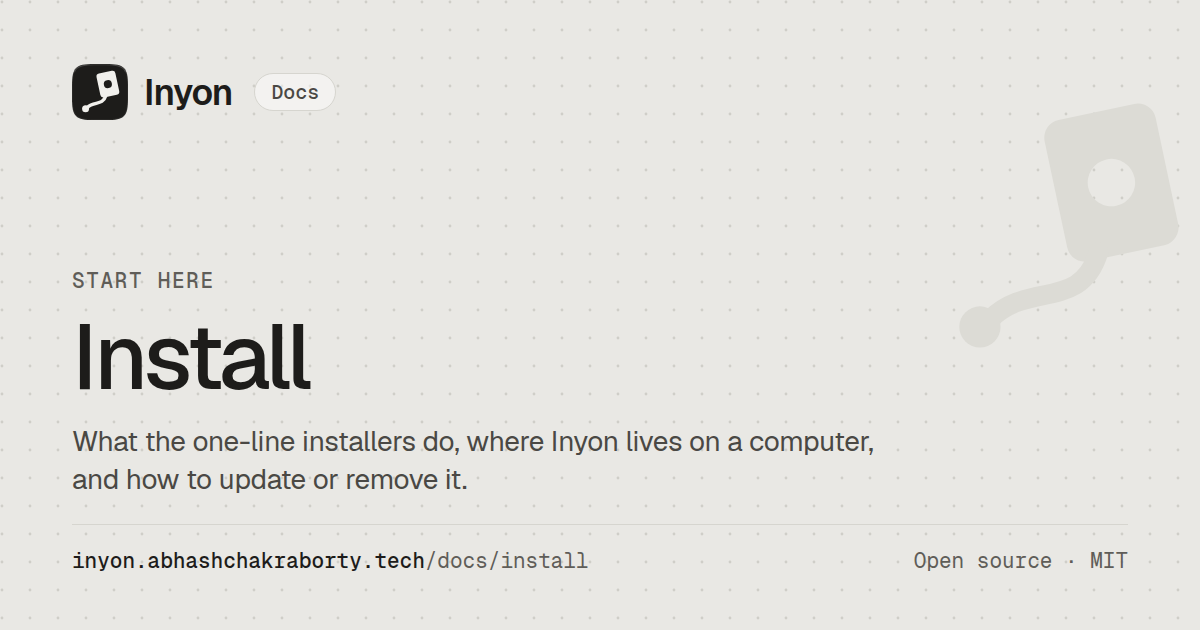
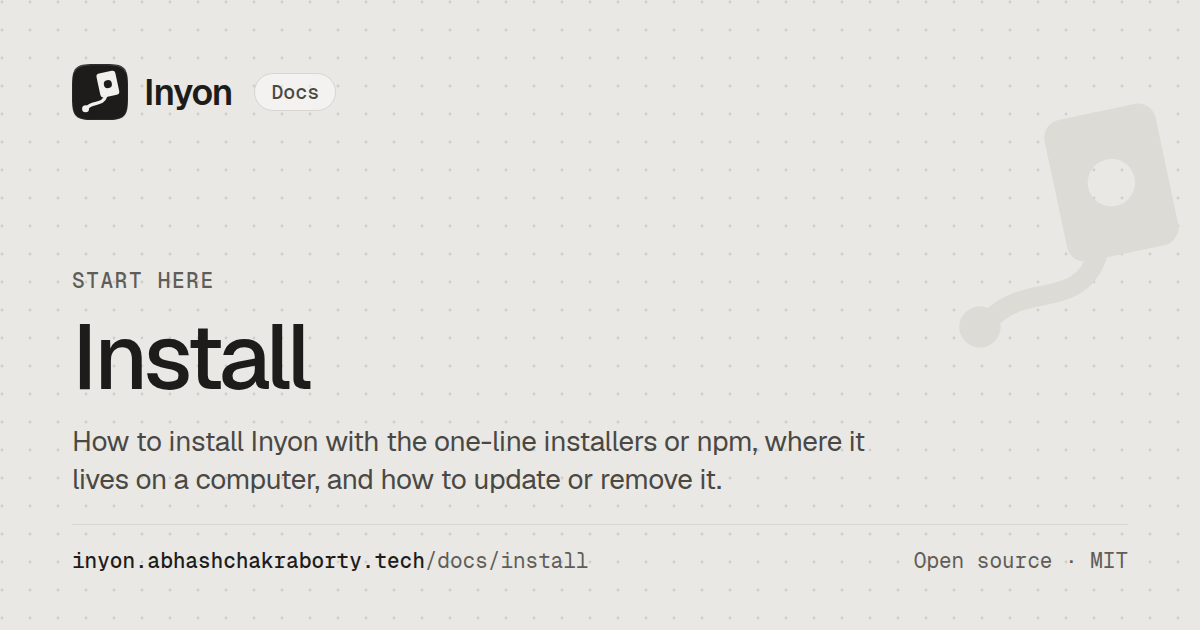
Publish the inyon command to npm
npm install -g @abhash-chakraborty/inyon installs a small launcher plus
@abhash-chakraborty/inyon-<platform>-<arch>, the release's own inyon
program for that system. Nothing runs at install time.

npm/pack.ts builds the packages from a GitHub release, using the files
only after SHA256SUMS has a good signature from the release key, every
file matches it, and the program reports the release's version. The new
npm workflow runs it after each release build and publishes through npm
trusted publishing (OIDC, provenance, no stored token) from the npm
environment, which deploys from main only. Actions are pinned by commit.

inyon update run from npm's copy now updates ~/.inyon/bin, which the
services run, and leaves the copy npm owns alone.

Docs: install (With npm, Updating), security (Downloads), the download
page and the README.

Changed region(s): [[0.0617, 0.6635, 0.74, 0.7841]]

diff --git a/npm/pack.ts b/npm/pack.ts
@@ -1,0 +1,124 @@
+// Builds the npm packages for one release: @abhash-chakraborty/inyon (a small launcher) and one
+// package per system holding that release's `inyon` program. The programs come from the GitHub
+// release and are only used after SHA256SUMS carries a good signature from the release key and
+// each file matches it.
+//
+//   bun npm/pack.ts v0.16.1 <out dir>
+//
+// .github/workflows/npm.yml publishes what this writes.
+import { createHash } from "node:crypto";
+import { chmodSync, cpSync, mkdirSync, readFileSync, rmSync, writeFileSync } from "node:fs";
+import { tmpdir } from "node:os";
+import { join } from "node:path";
+import { spawnSync } from "node:child_process";
+
+import { minisignOk, RELEASE_KEY } from "../site/build.ts";
+
+const REPO = "Abhash-Chakraborty/inyon";
+const SCOPE = "@abhash-chakraborty";
+
+/** npm's names for each system, and the release file built for it. */
+export const TARGETS = [
+  { os: "linux", cpu: "x64", file: "inyon-linux-x64" },
+  { os: "linux", cpu: "arm64", file: "inyon-linux-arm64" },
+  { os: "darwin", cpu: "x64", file: "inyon-darwin-x64" },
+  { os: "darwin", cpu: "arm64", file: "inyon-darwin-arm64" },
+  { os: "win32", cpu: "x64", file: "inyon-windows-x64.exe" },
+  { os: "win32", cpu: "arm64", file: "inyon-windows-arm64.exe" },
+] as const;
+
+const OS_NAME = { linux: "Linux", darwin: "macOS", win32: "Windows" } as const;
+
+const sha256 = (b: Buffer) => createHash("sha256").update(b).digest("hex");
+
+async function download(tag: string, name: string): Promise<Buffer> {
+  const url = `https://github.com/${REPO}/releases/download/${tag}/${name}`;
+  const r = await fetch(url, { redirect: "follow" });
+  if (!r.ok) throw new Error(`${name}: ${r.status} from ${url}`);
+  return Buffer.from(await r.arrayBuffer());
+}
+
+/** The checksum SHA256SUMS lists for `name` (sha256sum format, "*" marks binary mode). */
+function sumFor(sums: string, name: string): string | undefined {
+  for (const line of sums.split("\n")) {
+    const [hash, file] = line.trim().split(/\s+/);
+    if (file === name || file === `*${name}`) return hash;
+  }
+}
+
+async function main() {
+  const [tag, out] = process.argv.slice(2);
+  if (!tag?.match(/^v\d+\.\d+\.\d+$/) || !out) {
+    console.error("usage: bun npm/pack.ts v<major.minor.patch> <out dir>");
+    process.exit(2);
+  }
+  const version = tag.slice(1);
+
+  const sumsBytes = await download(tag, "SHA256SUMS");
+  const sig = (await download(tag, "SHA256SUMS.minisig")).toString("utf8");
+  if (!minisignOk(sumsBytes, sig, RELEASE_KEY)) throw new Error(`${tag}: SHA256SUMS isn't signed by the release key`);
+  const sums = sumsBytes.toString("utf8");
+
+  rmSync(out, { recursive: true, force: true });
+  const root = join(import.meta.dir, "..");
+  const license = join(root, "LICENSE");
+  const optional: Record<string, string> = {};
+
+  for (const t of TARGETS) {
+    const want = sumFor(sums, t.file);
+    if (!want) throw new Error(`${tag}: SHA256SUMS has no ${t.file}`);
+    const bytes = await download(tag, t.file);
+    if (sha256(bytes) !== want) throw new Error(`${t.file} doesn't match SHA256SUMS`);
+
+    const name = `${SCOPE}/inyon-${t.os}-${t.cpu}`;
+    const dir = join(out, `inyon-${t.os}-${t.cpu}`);
+    const exe = t.os === "win32" ? "inyon.exe" : "inyon";
+    mkdirSync(join(dir, "bin"), { recursive: true });
+    writeFileSync(join(dir, "bin", exe), bytes);
+    chmodSync(join(dir, "bin", exe), 0o755);
+    cpSync(license, join(dir, "LICENSE"));
+    const pkg = {
+      name,
+      version,
+      description: `The inyon command for ${OS_NAME[t.os]} on ${t.cpu}. Install ${SCOPE}/inyon instead of this one.`,
+      homepage: "https://inyon.abhashchakraborty.tech",
+      repository: { type: "git", url: `git+https://github.com/${REPO}.git`, directory: "npm" },
+      license: "MIT",
+      author: "Abhash Chakraborty",
+      os: [t.os],
+      cpu: [t.cpu],
+      files: [`bin/${exe}`],
+      preferUnplugged: true,
+      publishConfig: { access: "public", provenance: true },
+    };
+    writeFileSync(join(dir, "package.json"), `${JSON.stringify(pkg, null, 2)}\n`);
+    writeFileSync(
+      join(dir, "README.md"),
+      `# ${name}\n\nThe \`inyon\` command from [Inyon ${version}](https://github.com/${REPO}/releases/tag/${tag}) ` +
+        `for ${OS_NAME[t.os]} on ${t.cpu}, the file \`${t.file}\` with SHA-256 \`${want}\`.\n\n` +
+        `Install [\`${SCOPE}/inyon\`](https://www.npmjs.com/package/${SCOPE}/inyon) instead; it picks this package on its own.\n`,
+    );
+    optional[name] = version;
+    console.log(`${name}@${version}  ${t.file}  ${want}`);
+  }
+
+  // the program has to say it's this version, so an older release's signed files can't pass as this one
+  const here = TARGETS.find((t) => t.os === process.platform && t.cpu === process.arch);
+  if (!here) throw new Error(`can't run any of the programs on ${process.platform} ${process.arch} to check their version`);
+  const exe = join(out, `inyon-${here.os}-${here.cpu}`, "bin", here.os === "win32" ? "inyon.exe" : "inyon");
+  const said = spawnSync(exe, ["--version"], { encoding: "utf8", env: { ...process.env, HOME: tmpdir() } });
+  if (said.stdout?.trim() !== `inyon ${version}`) {
+    throw new Error(`${here.file} says "${said.stdout?.trim() || said.stderr?.trim()}", not inyon ${version}`);
+  }
+
+  const main = join(out, "inyon");
+  cpSync(join(import.meta.dir, "inyon"), main, { recursive: true });
+  cpSync(license, join(main, "LICENSE"));
+  const pkg = JSON.parse(readFileSync(join(main, "package.json"), "utf8"));
+  pkg.version = version;
+  pkg.optionalDependencies = optional;
+  writeFileSync(join(main, "package.json"), `${JSON.stringify(pkg, null, 2)}\n`);
+  console.log(`${SCOPE}/inyon@${version}`);
+}
+
+if (import.meta.main) await main();

diff --git a/npm/inyon/bin/inyon.js b/npm/inyon/bin/inyon.js
@@ -1,0 +1,30 @@
+#!/usr/bin/env node
+// Runs the inyon program from the package npm picked for this system
+// (@abhash-chakraborty/inyon-<platform>-<arch>). Nothing runs at install time.
+"use strict";
+
+const { spawnSync } = require("node:child_process");
+const { dirname, join } = require("node:path");
+
+const pkg = `@abhash-chakraborty/inyon-${process.platform}-${process.arch}`;
+const exe = process.platform === "win32" ? "inyon.exe" : "inyon";
+
+let bin;
+try {
+  bin = join(dirname(require.resolve(`${pkg}/package.json`)), "bin", exe);
+} catch {
+  console.error(
+    `inyon: ${pkg} isn't installed. There's no build for ${process.platform} ${process.arch}, ` +
+      "or optional dependencies were skipped (--omit=optional). Reinstall without that, or use " +
+      "the installer at https://inyon.abhashchakraborty.tech/docs/install/",
+  );
+  process.exit(1);
+}
+
+const run = spawnSync(bin, process.argv.slice(2), { stdio: "inherit" });
+if (run.error) {
+  console.error(`inyon: couldn't run ${bin}: ${run.error.message}`);
+  process.exit(1);
+}
+if (run.signal) process.kill(process.pid, run.signal);
+process.exit(run.status ?? 1);

diff --git a/site/pages/download.html b/site/pages/download.html
@@ -22,6 +22,8 @@
         <div class="cmd"><code>curl -fsSL https://inyon.abhashchakraborty.tech/get.sh | sh</code><button type="button">Copy</button></div>
         <p class="os">Windows, in PowerShell</p>
         <div class="cmd"><code>irm https://inyon.abhashchakraborty.tech/get.ps1 | iex</code><button type="button">Copy</button></div>
+        <p class="os">Or with npm, then run <code>inyon setup</code></p>
+        <div class="cmd"><code>npm install -g @abhash-chakraborty/inyon</code><button type="button">Copy</button></div>
         <p class="meta"><a href="/docs/install/">What the installer does →</a></p>
       </div>
     </div>

diff --git a/apps/cli/src/commands.rs b/apps/cli/src/commands.rs
@@ -651,14 +651,26 @@ pub fn update_command(sys: &Sys, background: bool, json: bool) -> Outcome {
             json!({ "background": true, "how": r.how, "message": format!("Updating inyon in the background ({}). Progress goes to {}.", r.how, node_dir().join("update.log").display()) }),
         );
     }
-    let me = PathBuf::from(sys.program.first().cloned().unwrap_or_default());
+    let mut me = PathBuf::from(sys.program.first().cloned().unwrap_or_default());
+    // npm's copy stays as npm installed it: update the one the services run from instead
+    let npm = update::from_npm(&me);
+    if npm {
+        me = paths::installed_binary();
+        if !me.exists() {
+            update::set_status("failed: installed with npm");
+            return Err(format!("This inyon came from npm. Update it with:\n  {}", update::NPM_UPDATE));
+        }
+    }
     let install = update::find_install(&me, saved_hub());
     let host = RealHost { sys, quiet: json };
     let result = update::update(&install, &host, &update::RealFiles);
     service::forget_update_task(sys);
     match result {
-        Ok(r) => {
+        Ok(mut r) => {
             update::set_status(&if r.changed { format!("done {}", r.version.clone().unwrap_or_default()).trim().to_string() } else { format!("current {VERSION}") });
+            if npm {
+                r.message = format!("{} The inyon command itself came from npm. Update it with:\n  {}", r.message, update::NPM_UPDATE);
+            }
             Ok(json!({ "changed": r.changed, "version": r.version, "message": r.message }))
         }
         Err(e) => {

diff --git a/apps/cli/src/update.rs b/apps/cli/src/update.rs
@@ -525,6 +525,14 @@ pub fn find_install(file: &Path, hub: Option<String>) -> Install {
     Install { kind: hub.map(Kind::Hub).unwrap_or(Kind::Binary), file: file.to_path_buf() }
 }
 
+/// How to update a copy npm installed: npm owns that file, so `inyon update` leaves it alone.
+pub const NPM_UPDATE: &str = "npm install -g @abhash-chakraborty/inyon@latest";
+
+/// Whether `file` is the copy from the `inyon` npm package (it sits inside a node_modules folder).
+pub fn from_npm(file: &Path) -> bool {
+    file.components().any(|c| c.as_os_str() == "node_modules")
+}
+
 /// The engine next to the installed program.
 pub fn engine_beside(file: &Path) -> PathBuf {
     let ext = file.extension().map(|e| format!(".{}", e.to_string_lossy())).unwrap_or_default();
@@ -967,6 +975,14 @@ mod tests {
         assert!(stale_link(Some(&with(Some("0.6.3"))), "0.6.4"));
         assert!(!stale_link(Some(&with(Some("0.6.4"))), "0.6.4"));
         assert!(!stale_link(None, "0.6.4"));
+    }
+
+    #[test]
+    fn a_copy_inside_node_modules_came_from_npm() {
+        assert!(from_npm(Path::new("/usr/lib/node_modules/inyon/node_modules/@abhash-chakraborty/inyon-linux-x64/bin/inyon")));
+        assert!(from_npm(Path::new("C:/Users/u/AppData/Roaming/npm/node_modules/@abhash-chakraborty/inyon-win32-x64/bin/inyon.exe")));
+        assert!(!from_npm(Path::new("/h/.inyon/bin/inyon")));
+        assert!(!from_npm(Path::new("/h/node_modules_old/inyon")));
     }
 
     #[test]

diff --git a/site/docs/install.md b/site/docs/install.md
@@ -1,6 +1,6 @@
 ---
 title: Install
-description: What the one-line installers do, where Inyon lives on a computer, and how to update or remove it.
+description: How to install Inyon with the one-line installers or npm, where it lives on a computer, and how to update or remove it.
 ---
 
 Every computer that runs agents for you gets two programs. `inyon` is a small command (about 2 MB, written in Rust) that sets things up, shows status and keeps everything updated. `inyon-engine` does the work behind it: the link to your phone, the connection to a hub, or the hub itself. You only ever type `inyon`.
@@ -47,6 +47,21 @@ Both read `INYON_DOWNLOAD`, a folder URL to fetch from instead. Every release st
 ```sh
 curl -fsSL https://inyon.abhashchakraborty.tech/get.sh | INYON_DOWNLOAD=https://github.com/Abhash-Chakraborty/inyon/releases/download/v0.14.0 sh
 ```
+
+## With npm
+
+From 0.16.1 the `inyon` command is also on npm, for any system above with Node.js 18 or later:
+
+```sh
+npm install -g @abhash-chakraborty/inyon
+inyon setup
+```
+
+npm installs only the `inyon` command and puts it on your `PATH`. It picks the build for your system from the packages `@abhash-chakraborty/inyon-<platform>-<arch>`, which hold the same files as the release. Nothing runs at install time, so `--ignore-scripts` works. `inyon setup` then downloads and checks the engine like the installers do, and copies `inyon` into `~/.inyon/bin`, so the background service doesn't depend on npm's folder.
+
+- **Update the command** with `npm install -g @abhash-chakraborty/inyon@latest`. From 0.17.1, `inyon update` run from npm's copy updates `~/.inyon/bin`, which the service runs, and leaves npm's copy to npm.
+- **Remove it** with `inyon uninstall` first, then `npm uninstall -g @abhash-chakraborty/inyon`.
+- **Check it** with `npm audit signatures` after installing. Every release from 0.16.1 is published by the release workflow on GitHub with a provenance statement, and the [npm page](https://www.npmjs.com/package/@abhash-chakraborty/inyon) links to the run that built it.
 
 ## Supported systems
 
@@ -108,6 +123,8 @@ It reads the newest version from this site's `latest.json` and checks that the r
 Versions after 0.14.0 update from this site; 0.14.0 and earlier from GitHub. A computer that joined a hub updates from the hub instead, so it always matches the hub's version. The hub can update it for you from its page under Machines. See [Updating hubs and machines](hub.md#updating).
 
 `inyon update --background` does the same without keeping your terminal open, which is how the app and the hub start an update remotely.
+
+If you installed the command with npm, update that copy with npm too. See [With npm](#with-npm).
 
 ## Uninstalling
 

diff --git a/npm/inyon/README.md b/npm/inyon/README.md
@@ -1,0 +1,26 @@
+# Inyon
+
+Your coding agents keep running in tmux on your machines. Inyon lets you watch them, answer them
+and steer them from your phone or any browser. It works with Claude Code, Codex, Gemini CLI,
+OpenCode, GitHub Copilot CLI and Antigravity CLI.
+
+```sh
+npm install -g @abhash-chakraborty/inyon
+inyon setup
+```
+
+`inyon setup` downloads the engine, checks its signature, installs the background service and
+prints a QR code to pair the [Android app](https://inyon.abhashchakraborty.tech/download/).
+
+## What this package installs
+
+Only the `inyon` command, about 2 MB. npm picks the build for your system from
+`@abhash-chakraborty/inyon-<platform>-<arch>` (Linux, macOS and Windows, x64 and arm64). Nothing
+runs at install time, so `--ignore-scripts` works. Every version is published from the release
+workflow on GitHub with provenance, and the programs are the ones in that release's signed
+`SHA256SUMS`.
+
+To update the command, run `npm install -g @abhash-chakraborty/inyon@latest`. `inyon update`
+updates the copy in `~/.inyon/bin` that the background service runs.
+
+Docs: https://inyon.abhashchakraborty.tech/docs/install/ · Source: https://github.com/Abhash-Chakraborty/inyon · MIT

diff --git a/site/docs/security.md b/site/docs/security.md
@@ -81,6 +81,7 @@ RWRTvQv/ifQnD3jarY1oarS0AKdhogH+mdgn/o0NzT/Ro8L43nFqqfp6
 - The installers check the signature when `minisign` is installed, and say so when it isn't. Either way they check every download against the list before running it.
 - A hub hands its own version's files to its machines with their sha256 in the command, so a machine always runs what its hub runs.
 - The files on this site are copied from the release. The site's build checks the signature and every program's checksum, and publishes nothing if one fails. A new release appears here only once its APK is listed in the signed list.
+- The npm packages (`@abhash-chakraborty/inyon` and one per system) are published only by the release workflow on GitHub, through npm's trusted publishing, so no npm token is stored for them. The workflow copies the programs from the release after checking the signature and every checksum, and each version carries a provenance statement naming the run that published it. `npm audit signatures` checks that after installing.
 - `cloudflared` is pinned to one version and checked against a known hash.
 
 [Checking a download](/download/#verify) shows how to check a file by hand.

diff --git a/README.md b/README.md
@@ -131,6 +131,8 @@ Checked against their docs in October 2026.
    irm https://inyon.abhashchakraborty.tech/get.ps1 | iex           # Windows, PowerShell
    ```
 
+   Or with npm: `npm install -g @abhash-chakraborty/inyon`, then `inyon setup`.
+
 3. In the app, tap *Add a computer* and scan it.
 
 Since 0.13 that line installs `inyon`, a 2 MB command, and its setup fetches the engine (about
